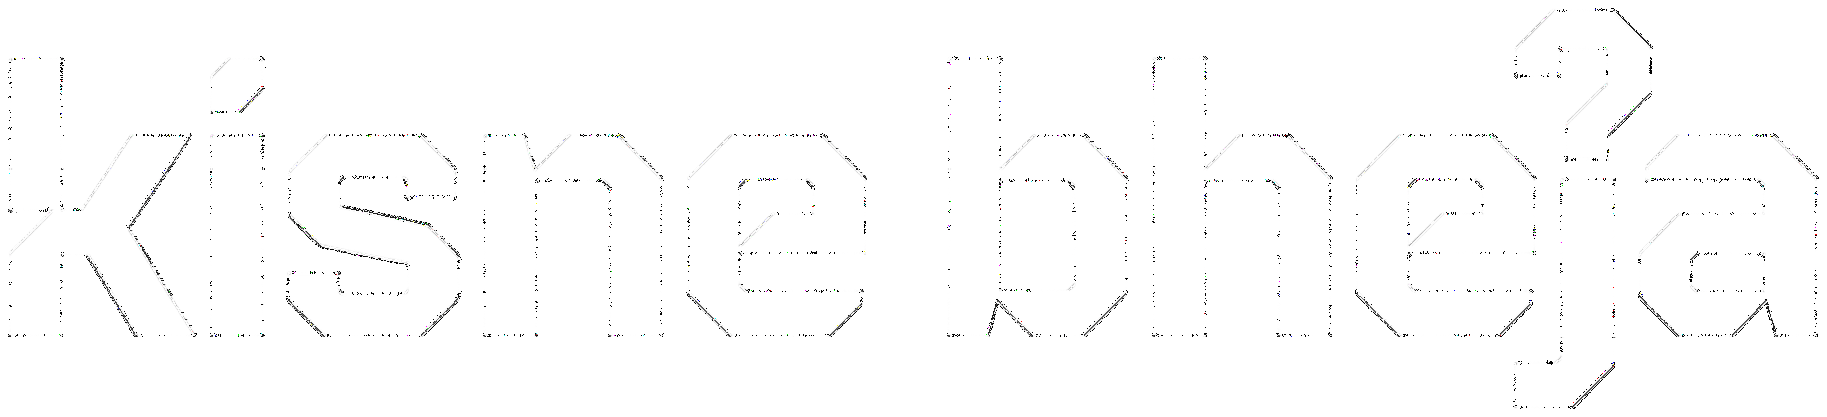
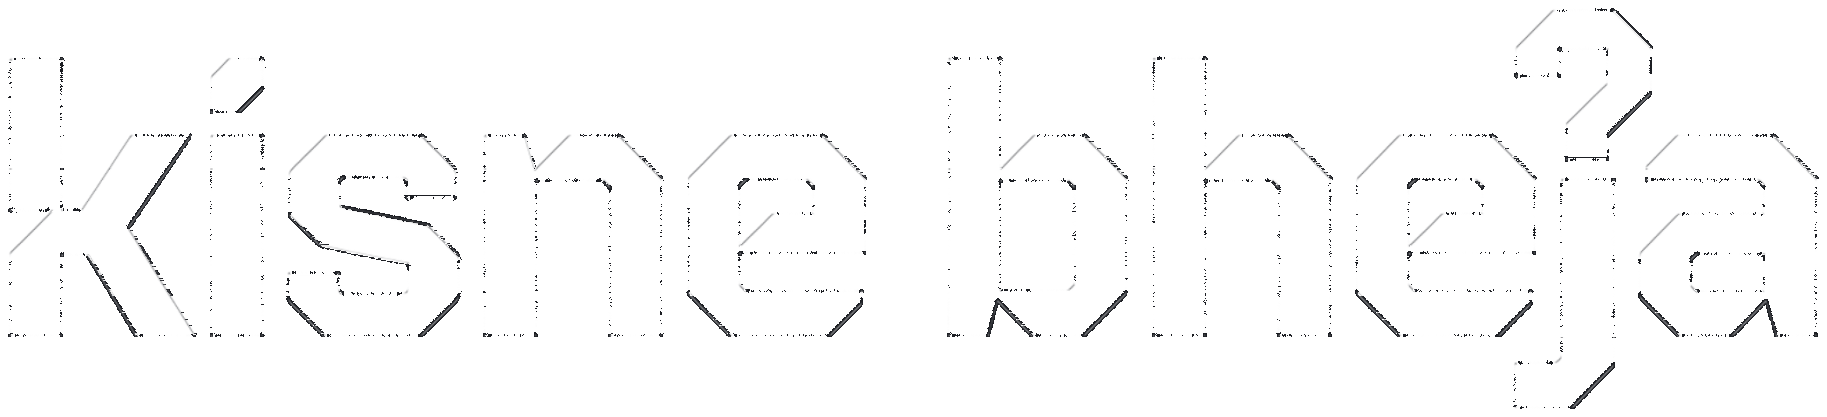
fix: recolor white typography to solid ink black for crisp visibility

Changed region(s): [[0.5304, 0.717, 0.5616, 0.7794], [0.2184, 0.4676, 0.2496, 0.4988], [0.1872, 0.4988, 0.2184, 0.53]]

diff --git a/src/app/dashboard/page.tsx b/src/app/dashboard/page.tsx
@@ -28,9 +28,9 @@ export default function DashboardPage() {
           <Image
             src="/brand/typography/hero_typography.png"
             alt="kisne bheja"
-            width={240}
-            height={56}
-            className="h-11 sm:h-12 w-auto object-contain"
+            width={200}
+            height={46}
+            className="h-9 sm:h-10 w-auto object-contain"
           />
         </Link>
         <h1 className="font-display text-3xl sm:text-4xl font-bold text-ink tracking-tight">

diff --git a/src/app/page.tsx b/src/app/page.tsx
@@ -12,10 +12,10 @@ export default function LandingPage() {
             <Image
               src="/brand/typography/hero_typography.png"
               alt="kisne bheja"
-              width={260}
-              height={60}
+              width={200}
+              height={46}
               priority
-              className="h-11 sm:h-13 w-auto object-contain"
+              className="h-9 sm:h-10 w-auto object-contain"
             />
           </Link>
 
